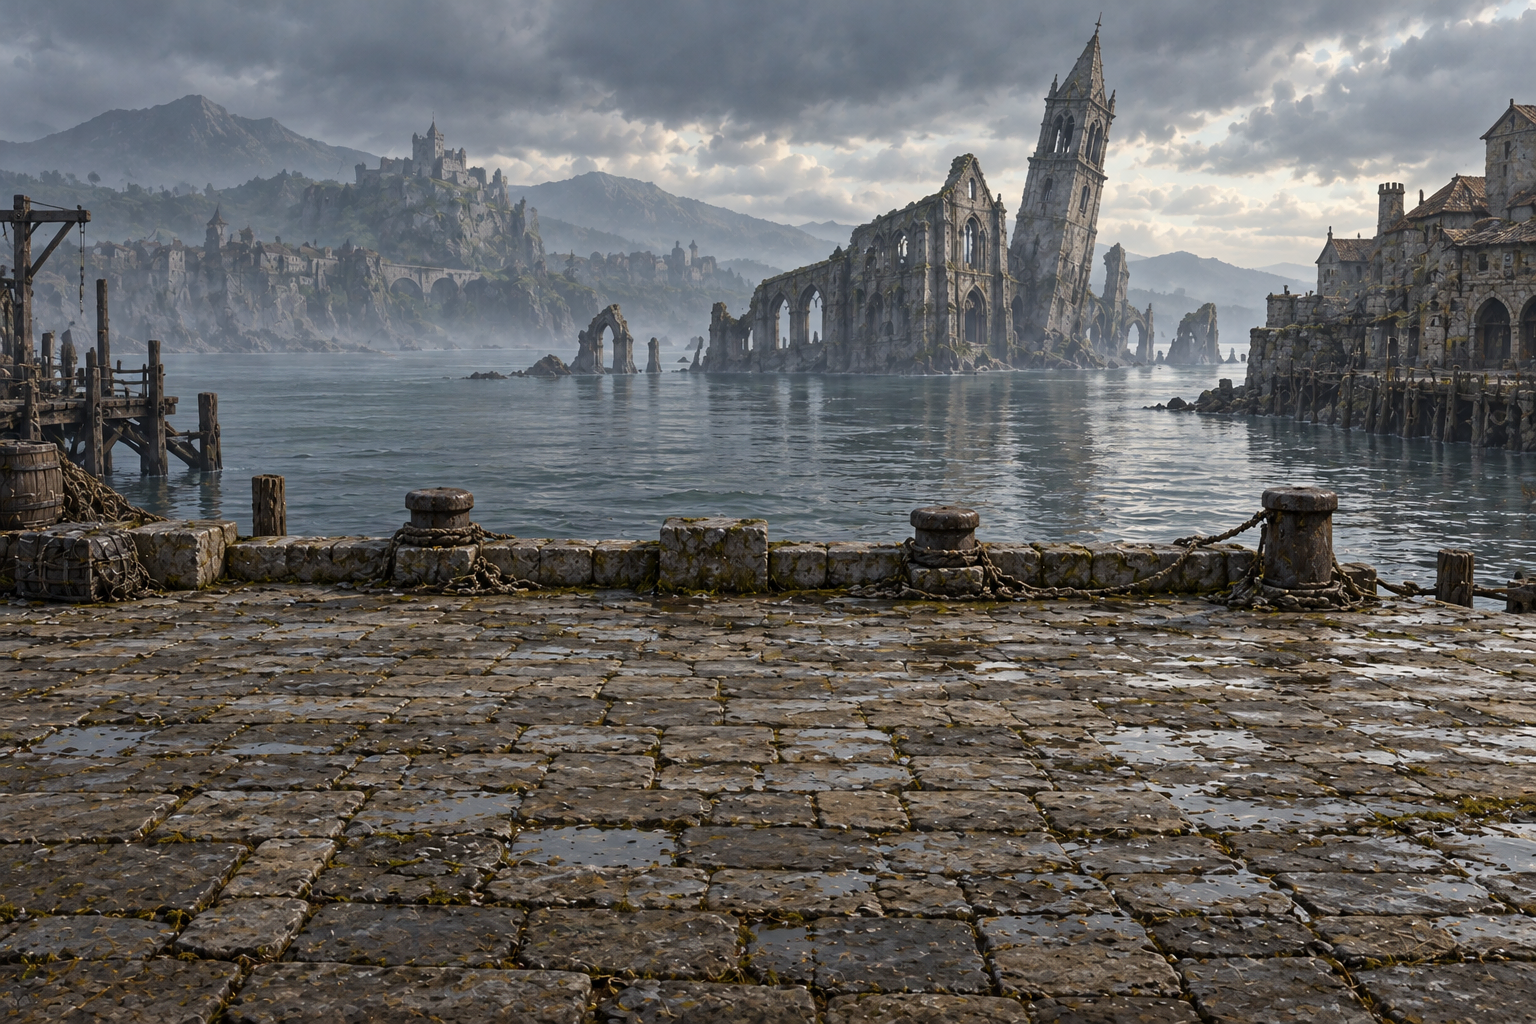
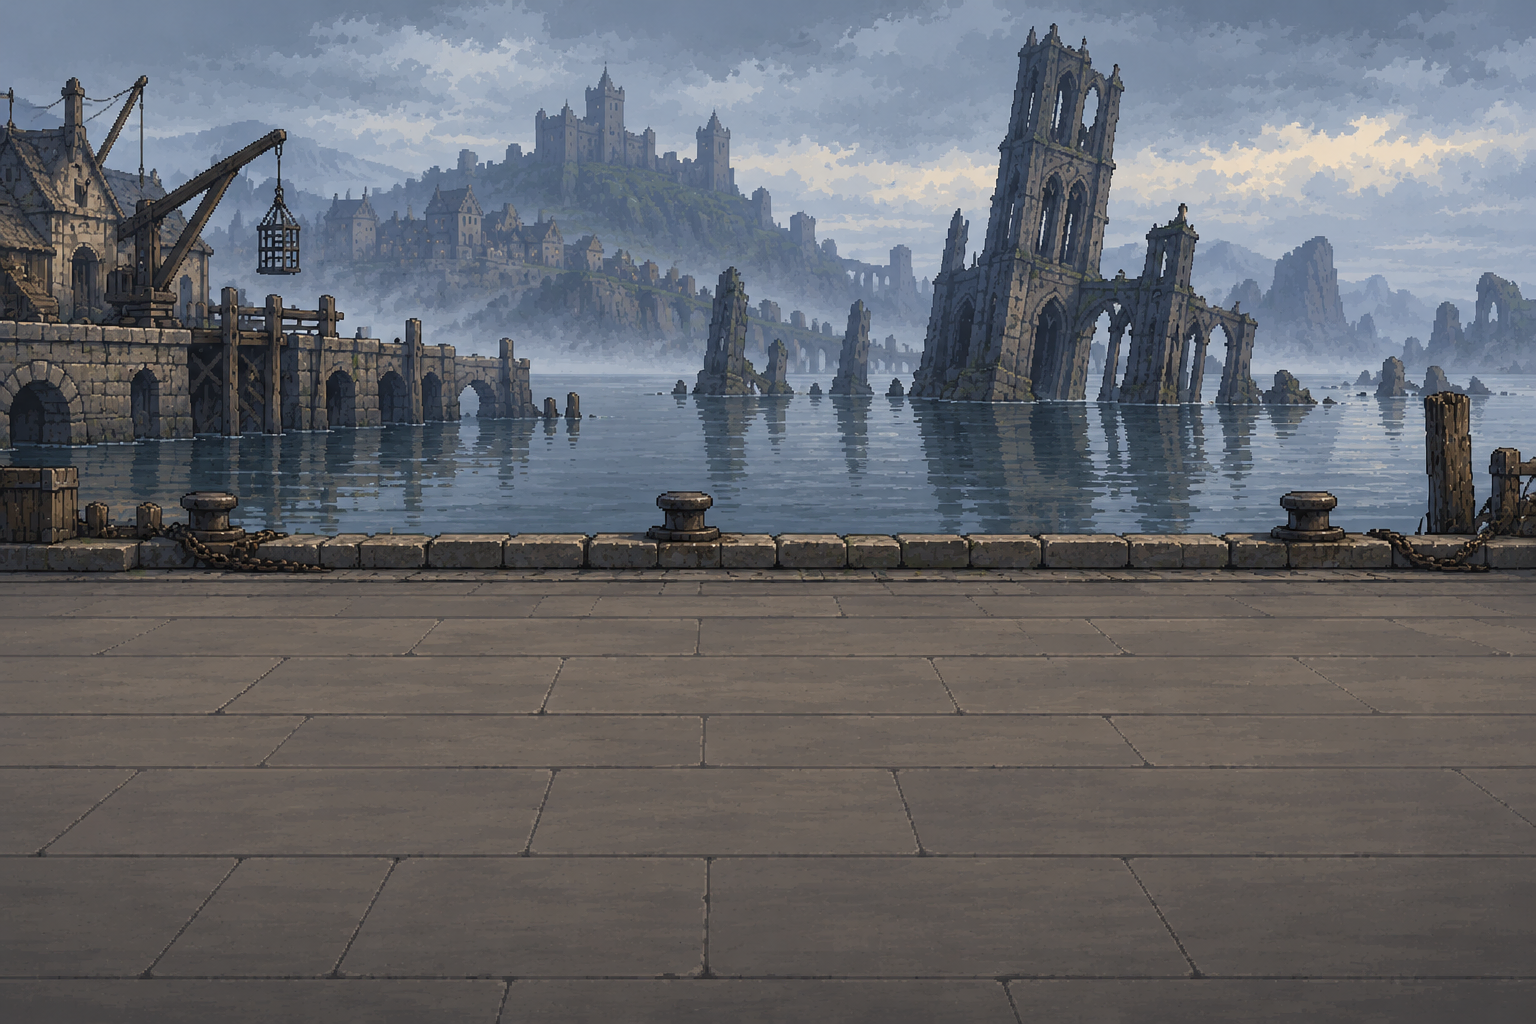
art: Harita 2 arka planlari temiz pixel art zemin (4 yeniden uretim) + River Reaver / Cliff Crossbowman kendi cizimleri + arka plan prompt kurali

diff --git a/src/engine/content.ts b/src/engine/content.ts
@@ -76,6 +76,8 @@ import mobDrownedKnight from '../../data/mobs/drowned_knight.json';
 import mobBrineMaiden from '../../data/mobs/brine_maiden.json';
 import mobReaverArcher from '../../data/mobs/reaver_archer.json';
 import mobReefWrecker from '../../data/mobs/reef_wrecker.json';
+import mobRiverReaver from '../../data/mobs/river_reaver.json';
+import mobCliffCrossbowman from '../../data/mobs/cliff_crossbowman.json';
 import groundsJson from '../../data/grounds.json';
 import battleRulesJson from '../../data/battle-rules.json';
 import statusesJson from '../../data/statuses.json';
@@ -196,6 +198,8 @@ const mobData: CombatantData[] = [
   mobBrineMaiden,
   mobReaverArcher,
   mobReefWrecker,
+  mobRiverReaver,
+  mobCliffCrossbowman,
 ] as unknown as CombatantData[];
 
 /**

diff --git a/tests/campaign-drowned-reach.test.ts b/tests/campaign-drowned-reach.test.ts
@@ -130,6 +130,8 @@ describe('The Drowned Reach: harita verisi', () => {
       'Brine Maiden': ['brine_maiden', 'sunken_court', ['lament_of_salt', 'tidal_mend']],
       'Reaver Archer': ['reaver_archer', 'bandits', ['pitch_arrow', 'fire_volley']],
       'Reef Wrecker': ['reef_wrecker', 'bandits', ['hook', 'lantern_flash']],
+      'River Reaver': ['river_reaver', 'bandits', ['billhook', 'peat_smoke']],
+      'Cliff Crossbowman': ['cliff_crossbowman', 'bandits', ['crossbow_bolt', 'scatter_quarrels']],
     };
     const seen = new Set<string>();
     for (const [key, enc] of Object.entries(ENCOUNTERS))

diff --git a/tools/import-mobs.py b/tools/import-mobs.py
@@ -75,6 +75,9 @@ HEADS = {
     'brine_maiden': (690, 15, 300),
     'reaver_archer': (540, 225, 300),
     'reef_wrecker': (642, 0, 290),
+    # 2026-10-27: Harita 2'nin son iki kendi çizimi (önceden moor_raider / bandit_crossbowman çizimini kullanıyorlardı)
+    'river_reaver': (455, 0, 290),
+    'cliff_crossbowman': (350, 40, 300),
     # Kadın varyasyonları (V1-V5, 2026-10-26)
     'corsair_cutlass_f': (620, 0, 260),
     'corsair_slinger_f': (608, 0, 280),

diff --git a/docs/arch/assets.md b/docs/arch/assets.md
@@ -46,3 +46,17 @@
 - **Bölge I (tutorial, 2026-10-16):** Cutpurse, Grey Wolf, Ravenwood Poacher, Raven Seer, Bandit Chief çizimleri + 5 ikon sayfası (eski Cudgel / Hamstring / Gnaw ikonları dahil) + 11 VFX + Bandit Chief poz sayfası. Grey Wolf yatay çizim: `import-mobs.py` en/boyu 1,5'i aşan idle.png'yi üstten saydam boşlukla 1,45'e indirir (`WIDE_MAX`; oyun 1,5 ve üstünü yatay sprite sheet sayar), ekrandaki boyu mob json `spriteScale` 1,2 (insanların ~yarısı, bel-göğüs hizası; 0.8.2 telefon testinde 1,6 fazla iriydi). Araç ekleri: `HAZE` (soluk sisli sheet), `ROW_SEAM` (üst satırın taşması), `CLEAN_EDGES` (komşu hücre kırıntıları; yalnız Bölge I), `POSE_SPLIT` (figürü ızgarayı aşan poz sayfası: bileşen bazlı kesim). Poz kaydında `skills` = skill'e özel hazırlık/vuruş karesi; `MOB_VFX_SPECS.windMs` = yakın dövüşte atılmadan önce hazırlık pozu. Ayrıntı `docs/design/campaign/mob-plan.md` 9.10.
 - **Bölge III (2026-10-17, YER TUTUCU; ChatGPT sanatı yarın):** 6 mob + Lord Morvane ödünç çizimle (mob json / boss json `spriteId`, gelişmişlerde `spriteScale`); yeni skill'ler `artOf` ile bir Bölge I-II mob skill'ine bağlı ve onun BOYALI ikonunu (`skillIconName`, Codex `skillPic`) ve 8 karelik sheet'ini (`vfx-select.ts`: kendi sheet'i yoksa artOf'unki) gösterir; yeni pasifler `src/ui/mob-icons.ts > PASSIVE_ICON_STANDIN`. Araçlarda satırlar hazır: `ICON_SHEETS` (5 sayfa), `GROUND`, `MOB_VFX_SPECS` (14 satır), `HEADS` (yer tutucu kafa kutusu; kaynağı olmayan id atlanır), poz kayıtları `data/mob-poses.json > _pending` (poz içe aktarılınca üst düzeye taşınır). Liste ve prompt'lar `docs/design/campaign/mob-plan.md` 10.6.
 - Tek komut: `node tools/import-mob-art.mjs` (ikon + vfx + poz). Testler `tests/mob-art.test.ts`.
+
+## Savaş arka planı prompt kuralı (Ömer 2026-10-27, KALICI; "pixel art ama temiz")
+Sorun: Harita 2'nin ilk arka planlarında savaş zemini (alt yarı) foto-gerçekçi boyalı doku (çamur, taş kırıntısı, ot, su birikintisi) yüzünden gürültülüydü; birimler okunmuyordu. Beğenilen örnekler (river-gorge, sunken-court, storm-deck, Harita 1 v3) şunu gösterdi: zemin tek geniş düzgün yüzey, ayrıntı ufukta ve orta planda. TÜM yeni arka planlar şu kurala uyar:
+- Üslup: temiz pixel art (net görünür pikseller, sınırlı palet, düz gölgeleme); foto-gerçekçi / yağlı boya / film greni / gürültülü doku YOK.
+- İki bölge, net ayrım: üst ~%58 = ufuk + orta plan (tüm sahne ayrıntısı burada); alt ~%42 = savaş zemini. Zemin ile ufuk arasında keskin, temiz bir kenar (çit / korkuluk / rıhtım duvarı / basamak / su kenarı).
+- Savaş zemini: tek geniş, sade, düz yüzey (düz taş döşeme, düz kum, düz güverte tahtası, düz çamur düzlüğü); yalnız 2-3 yakın ton, düşük kontrast, eşit aydınlık. Küçük dağınık nesne, çakıl, ot kümesi, su birikintisi, yosun, enkaz, belirgin çatlak, nesne gölgesi YOK; köşelerde ön plan kalabalığı yok (en çok çok yumuşak koyu vinyet).
+- Karakter, yaratık, yazı, filigran, arayüz, çerçeve yok. Kamera düz karşıdan, göz hizası. Boyut 1536x1024.
+- Kontrol: zemin bandı (y 0.60-1.0) küçültülüp bakıldığında birim siluetleri rahat okunmalı; gürültülüyse yeniden üret (görsel başına en çok 3 deneme).
+
+**Prompt şablonu** (ortak gövde + sahneye özel kısım; ChatGPT'ye "Create an image:" ile):
+```
+Create an image: ONE wide 3:2 landscape (1536x1024) battle backdrop for a side-view 2D medieval dark-fantasy RPG. Style: CLEAN PIXEL ART, crisp visible pixels, limited palette, flat shading, tidy and uncluttered; NOT photorealistic, NOT painterly, no film grain, no noisy texture. The image has two clearly separated zones with a sharp horizontal divide at about 58 percent from the top. UPPER 58 percent = horizon and mid-ground where all the scenic detail lives. LOWER 42 percent = the battle floor where characters will stand: one large, simple, flat, smooth surface of only 2 to 3 close tones, very low contrast, evenly lit, no scattered small objects, no pebbles, no grass tufts, no puddles, no cracks except a few thin straight lines, no debris, no seaweed, no foreground clutter at the corners (at most a very soft dark vignette). Crisp clean edge where the floor meets the scenery. No characters, no creatures, no text, no watermark, no UI, no border. Camera straight-on at eye level. SCENE: <ad>. Upper part: <ufuk + orta plan>. FLOOR: <sade zemin: örn. a flat smooth grey stone quay paved in large rectangular slabs with thin straight joints>.
+```
+Sahne örnekleri (Harita 2, 2026-10-27): Saltmarsh (zemin: düz sıkışmış gri-bej çamur düzlüğü), Saltmere Docks (zemin: büyük dikdörtgen taş döşeme rıhtım), Wreck Cliffs (zemin: düz ıslak koyu kum plaj), Siren Rocks (zemin: düz koyu gelgit kaya sahanlığı). Reddedilen ilk sürümler `assets/source/backgrounds-drowned/rejected/`.

diff --git a/docs/design/campaign/maps-2-3.md b/docs/design/campaign/maps-2-3.md
@@ -1,4 +1,4 @@
-# Harita 2 ve 3: The Drowned Reach / The Hollow Crown (TASLAK, Ömer onayı bekliyor)
+# Harita 2 ve 3: The Drowned Reach / The Hollow Crown (TASLAK, Ömer onayı bekliyor)
 
 Durum: **ONAYLANDI (Ömer 2026-10-20, karar formu https://claude.ai/artifact/SfCQKJLkNNJuuxUGJG2P2h). Yapım zamanı: 1.0 SONRASI** (Ömer notu: "Tüm planı not al. 1.0 sonrası yapılacak"). Hiçbir veri/kod yazılmadı; bu belge tam plan ve 7. bölümdeki sırayla yapılır (`campaign-dev` iskelet + geçiş → engine-dev mekanikler → content-designer mob kartları → art-pipeline). Oyun içi adlar İngilizce, açıklamalar Türkçe. Sayılar PROVİZYON (denge balance-tester'ın işi).
 
@@ -520,7 +520,7 @@ Adım 1 = harita geçişi (M-Q) + Harita 2 iskeleti. Yeni mekanik yok; aşağıd
 - dr1-3 elle L10 (yeni düğüm alanı `level`, power.ts `nodeLevel`); geri kalanı var olan bölüm rampası (bölüm 2 = L11-20). dr4 L12'ye atlıyor (L11 hiçbir düğümde yok). **K**
 - `power-budget.json` bölüm 2 adı "The Ashlands" -> "The Drowned Reach", `map: "drowned-reach"` (test güncellendi). Bölüm 3 adı değişmedi.
 - `CONFIG.enemyScale.regions` I/II/III anahtarlıydı; Harita 2'nin bölge id'leri de I-VI olduğu için yanlışlıkla Harita 1 çarpanları uygulanmasın diye `enemyScale.regionsMap: "valdoria"` eklendi (yalnız o haritada uygulanır).
-- Mob eşlemesi (yeni mob yok, var olanlar adlandırıldı): River Reaver / Reef Wrecker = moor_raider, Reaver Archer / Cliff Crossbowman = bandit_crossbowman, Corsair Cutlass = cutpurse, Corsair Slinger = ravenwood_poacher, Salt Crab = shieldwarden, Weir Eel = grey_wolf, Reef Hound = ash_hound, Salt Hag = fen_witchling, Siren = raven_seer, Tide Caller = grave_chanter, Drowned Knight = sworn_guard, Brine Maiden = censer_monk, Wreck Ghoul = ghoul, Marsh Light = will_o_wisp, Dock Rat = road_thug.
+- Mob eşlemesi (yeni mob yok, var olanlar adlandırıldı): River Reaver / Reef Wrecker = moor_raider, Reaver Archer / Cliff Crossbowman = bandit_crossbowman (2026-10-27: River Reaver ve Cliff Crossbowman artık kendi id + çizimleri: `river_reaver`, `cliff_crossbowman`; kit/stat aynı, Harita 2 karşılaşmaları bunlara bağlı), Corsair Cutlass = cutpurse, Corsair Slinger = ravenwood_poacher, Salt Crab = shieldwarden, Weir Eel = grey_wolf, Reef Hound = ash_hound, Salt Hag = fen_witchling, Siren = raven_seer, Tide Caller = grave_chanter, Drowned Knight = sworn_guard, Brine Maiden = censer_monk, Wreck Ghoul = ghoul, Marsh Light = will_o_wisp, Dock Rat = road_thug.
   - **Kendi çizimler oyunda (content-designer 2026-10-25):** 9 onaylı çizim kendi mob id'siyle: `corsair_cutlass`, `corsair_slinger`, `salt_crab`, `weir_eel`, `siren`, `drowned_knight`, `brine_maiden`, `reaver_archer`, `reef_wrecker` (`data/mobs/<id>.json`, kaynak `assets/source/mobs`, `tools/import-mobs.py` HEADS). **3.3 kitleri uygulandı (content-designer 2026-10-25, open-questions 419):** 17 yeni skill (Cutlass/Rake, Sling Stone/Pitch Pot, Pincer/Burrow, Bite (`eel_bite`)/Lunge, Lament/Chorus, Rusted Blade/Shield of Brine, Lament of Salt/Tidal Mend, Pitch Arrow + Scatter Quarrels, Hook/Lantern Flash), aileler Corsairs / Beasts / Hexes / Sunken Court / Bandits; Boarding / Shell / Slick / Lure / Deathless Tide / Salt Tears / Undertow pasifleri motorda (2026-10-25, 419.1); Weir Eel Bite Soaked hedefe x1,3 (`bonusVsStatus`). Yatay çizimler: Weir Eel spriteScale 1,2, Salt Crab 1,3; Drowned Knight 1,12. Kendi ikon ve efektleri (art-pipeline 7b399db) Cutlass, Slinger, Salt Crab, Weir Eel, Siren için bağlı (MOB_VFX_SPECS; yalnız bunlar speed 1,35 + 5 kat ara kare); diğer 4 mobun skill efektleri artOf ile var olan sheet'lerden oynar (savaş preload'u skill'e göre de yükler: `mobSheetsOf(units, skills)`). River Reaver ve Cliff Crossbowman yer tutucuda kaldı (çizim yok).
 - Elitler (tier elite, hp 1.7 / güç 1.1 / stat 1.15): Hook / Wrecker-Captain / Marrow = bandit_chief, Salt Hag Mother / Siren Queen = hedge_witch_morwen, Bastion / Drowned Champion = thane_of_the_deep, Salt Bishop = high_priest_of_the_undying.
 - Bosslar: Weir Wyrm = bridge_warden (dev, 2 Weir Eel, mooring yok), Admiral Vane = bridge_warden + iron_mooring "Harpoon Ballista" + eskort, Drowned Queen = lord_morvane + thane "The Drowned Champion" + 2 Brine Maiden. Çarpanlar kabaca, sim yok. Harbor Fort = Guild Enforcer "Bastion" (Order tarafı) seçildi.

diff --git a/.claude/agents/art-pipeline.md b/.claude/agents/art-pipeline.md
@@ -52,3 +52,6 @@ Görseli tarayıcı açmadan `node tools/codex/imagegen.mjs --out <hedef.png> --
 Üretilen / içe aktarılan dosyalar, önizleme yolları, yeniden üretilmesi gerekenler, kalan liste.
 
 **Tarayıcı testinde SES KAPALI (Ömer 2026-10-24, ZORUNLU):** oyunu tarayıcıda açan herkes (ana oturum + her agent) her yeni porta/sekmeye ilk iş olarak `localStorage.setItem('eov.settings.v1', JSON.stringify({volume:0, steps:20})); location.reload()` çalıştırır (Master 0 = müzik + efekt + arayüz sesi kapalı). Eski `proto.settings.v1` anahtarı İŞE YARAMAZ (taşıma bir kez çalışır).
+
+## Arka plan prompt kuralı (Ömer 2026-10-27, KALICI)
+Savaş arka planı = temiz pixel art; üst ~%58 ufuk/orta plan ayrıntısı, alt ~%42 savaş zemini TEK sade düz yüzey (2-3 yakın ton, düşük kontrast; çakıl, ot, su birikintisi, enkaz, çatlak, nesne gölgesi YOK), zemin/ufuk arasında net kenar, karakter/yazı/filigran yok, 1536x1024. Foto-gerçekçi boyalı doku reddedilir. Tam kural + prompt şablonu: `docs/arch/assets.md` > "Savaş arka planı prompt kuralı". Görsel başına en çok 3 deneme; zemin gürültülüyse yeniden üret.
